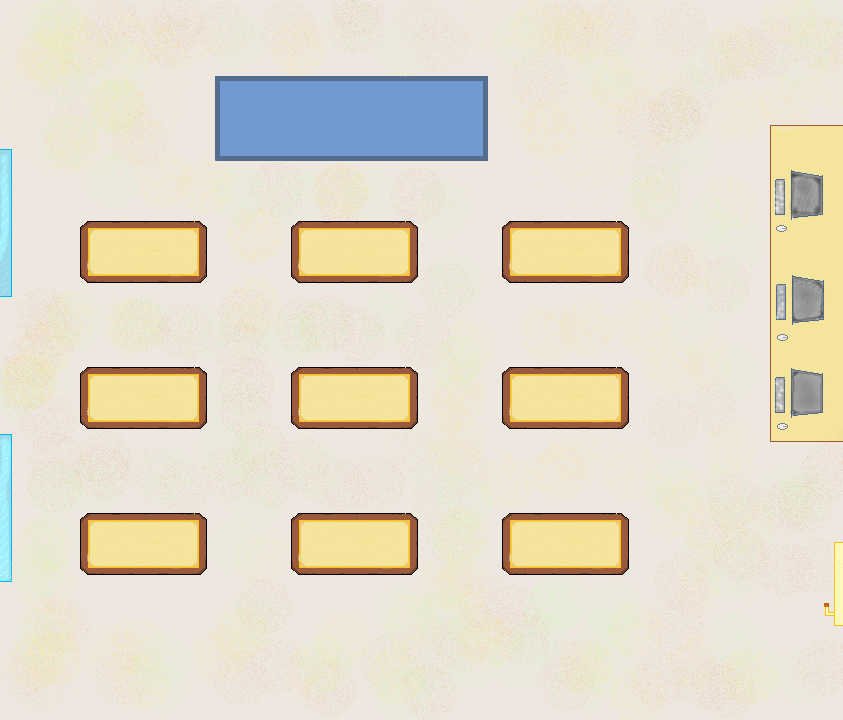
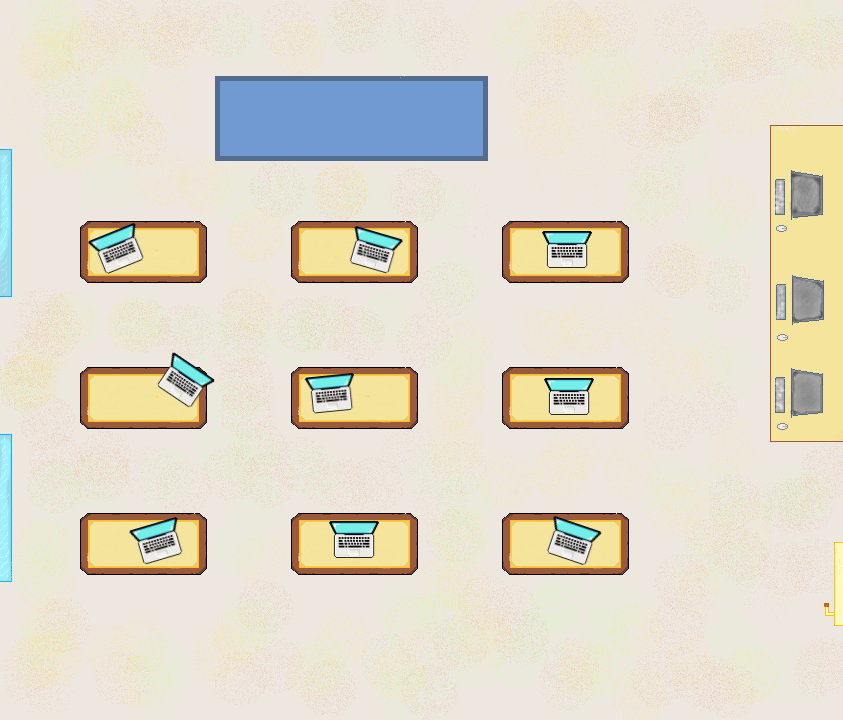
gave kids laptops

diff --git a/Mr.Cohen-Simulator/Simulator.java b/Mr.Cohen-Simulator/Simulator.java
@@ -3,6 +3,8 @@ import greenfoot.*;  // (World, Actor, GreenfootImage, Greenfoot and MouseInfo)
 /**
  * This is the world that contains the simulation
  * 
+ * https://www.freepik.com/premium-vector/pixel-art-illustration-laptop-pixelated-notebook-classic-laptop-computer-icon-pixelated-game_80323384.htm
+ * 
  * @author Felix Zhao
  * @version 0.0.1 April 11th, 2024
  */
